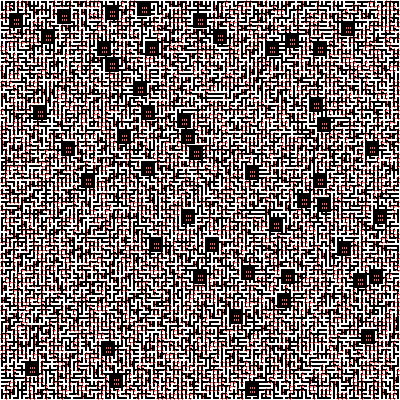
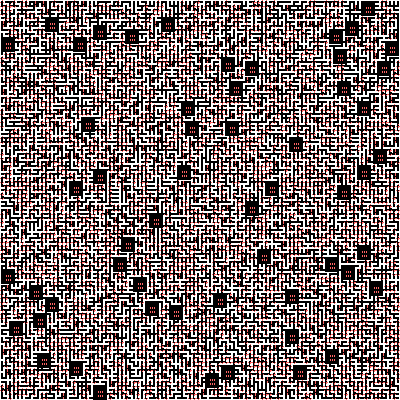
added animations to tiles

diff --git a/src/world.rs b/src/world.rs
@@ -256,22 +256,14 @@ pub enum TileKind {
 
 impl Tile {
 	pub fn new(kind: TileKind, time: f32) -> Self {
-		Tile {
-			graphics: match kind {
-				TileKind::Floor => None,
-				TileKind::Wall => Some(TileGraphics {
-					texture: Animation::new_loop(Texture::Wall),
-					is_transparent: false,
-				}),
-				TileKind::Window => Some(TileGraphics {
-					texture: Animation::new_loop(Texture::Window),
-					is_transparent: true,
-				}),
-			},
-			kind,
+		let mut tile = Tile {
+			graphics: None,
+			kind: TileKind::Floor,
 			floor_gfx: Texture::Floor,
 			sprites_inside: Vec::new(),
-		}
+		};
+		tile.set_kind(kind);
+		tile
 	}
 
 	pub fn kind(&self) -> &TileKind {
@@ -282,7 +274,7 @@ impl Tile {
 		self.graphics = match kind {
 			TileKind::Floor => None,
 			TileKind::Wall => Some(TileGraphics {
-				texture: Animation::new_loop(Texture::Wall),
+				texture: Animation::new_loop(Texture::Door),
 				is_transparent: false,
 			}),
 			TileKind::Window => Some(TileGraphics {

diff --git a/src/texture.rs b/src/texture.rs
@@ -75,7 +75,7 @@ impl Textures {
 							Ok(TextureInfo {
 								id,
 								n_animation_frames,
-								fps: total_time / n_animation_frames as f32,
+								fps: n_animation_frames as f32 / total_time,
 							})
 						}
 						false => {
@@ -115,7 +115,7 @@ impl Textures {
 			}
 		};
 
-		&self.images[texture.id]
+		&self.images[texture.id + frame]
 	}
 }
 
